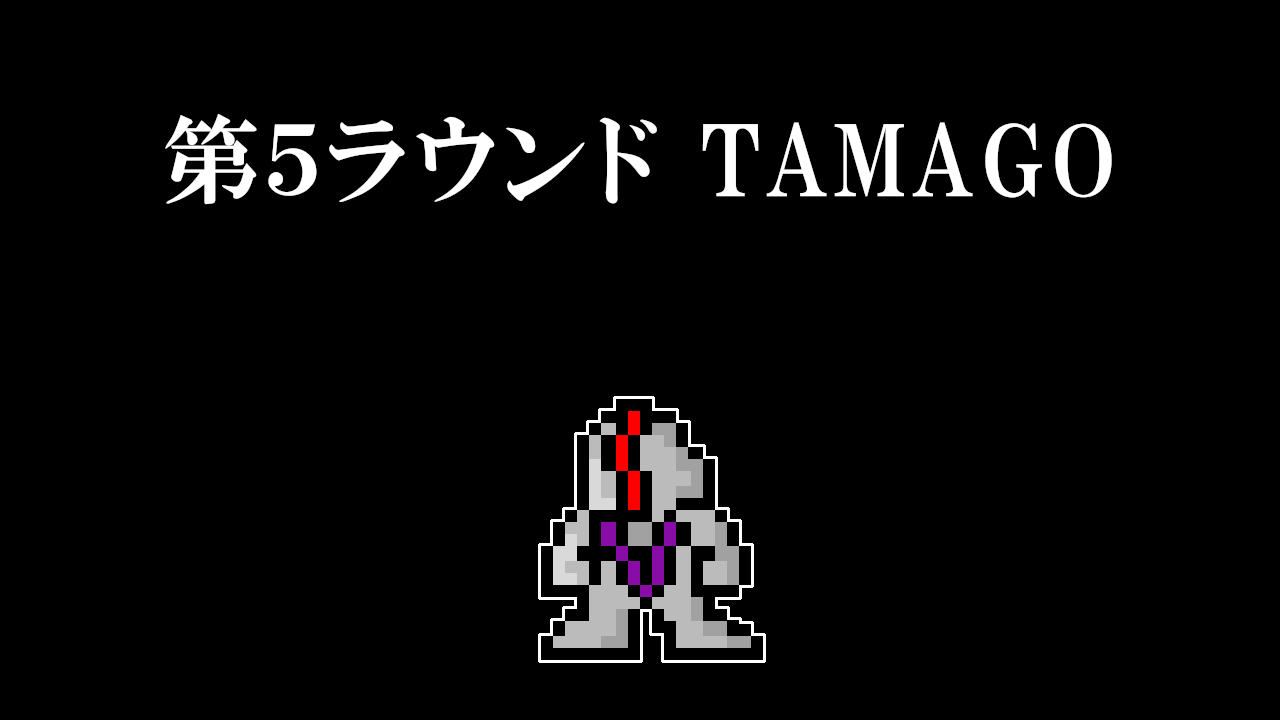
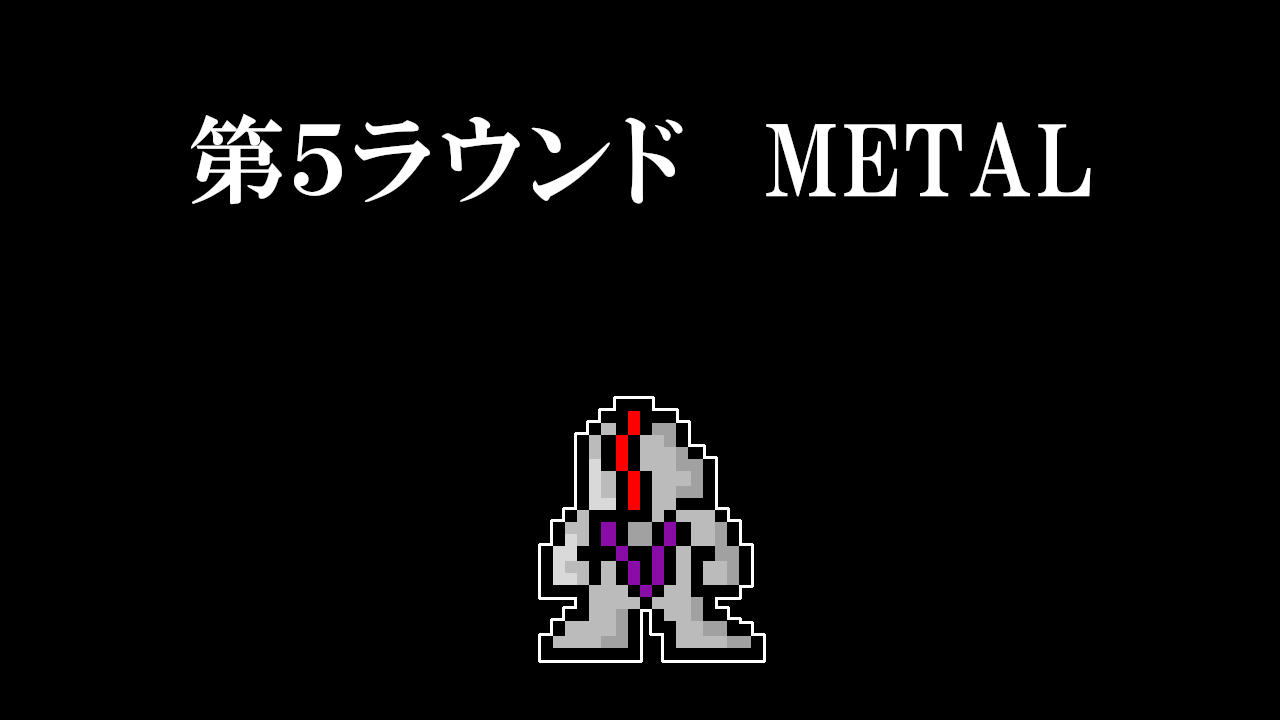
Round5

Changed region(s): [[0.125, 0.1528, 0.875, 0.3056]]

diff --git a/Rock-Paper-Scissors/Stage_Base.cpp b/Rock-Paper-Scissors/Stage_Base.cpp
@@ -33,7 +33,7 @@ namespace _CONSTANTS_SB
 		"KAERU",        //2
 		"ZAKU",           //3
 		"RED EYE",       //4
-		"TAMAGO",         //5
+		"METAL",         //5
 		"JAN NINJA",      //6
 		"JHO",            //7
 		"TWIN AVATAR",     //8
